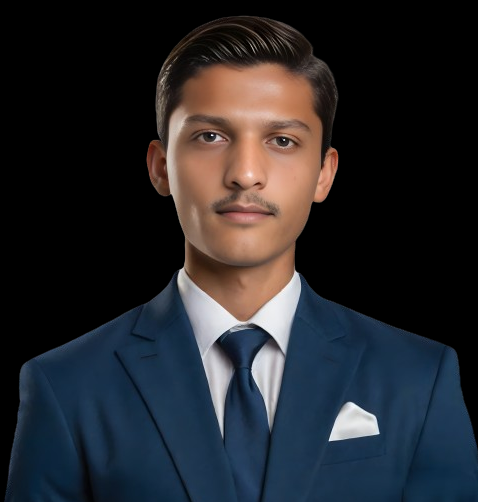
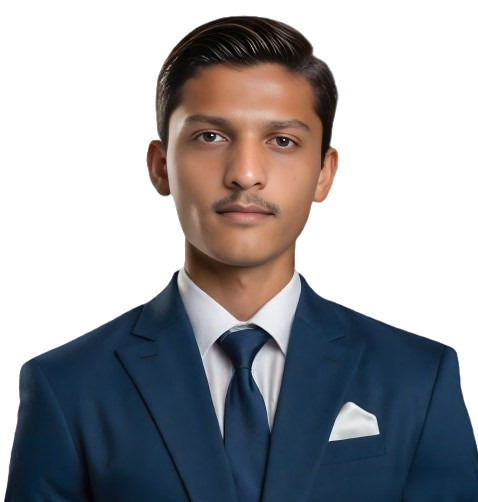
updated tailwind

diff --git a/components/Photo.jsx b/components/Photo.jsx
@@ -34,7 +34,7 @@ const Photo = () => {
             quality={100}
             fill
             alt="Profile-Image"
-            className="object-contain cursor-pointer"
+            className="object-contain cursor-pointer boxshadow"
           />
         </motion.div>
         <motion.svg

diff --git a/tailwind.config.js b/tailwind.config.js
@@ -32,6 +32,9 @@ module.exports = {
           hover:'#00e187',
         },
       },
+      boxShadow: {
+        'custom-white': '0 35px 35px rgba(255, 255, 255, 0.3)',
+      },
       keyframes: {
         "accordion-down": {
           from: { height: "0" },

diff --git a/components/Photo.css b/components/Photo.css
@@ -5,4 +5,8 @@
 .mix-blend-remove {
     mix-blend-mode: lighten;
   }
+
+.boxshadow{
+  filter: drop-shadow(1px 1px 6px white);
+}
   
